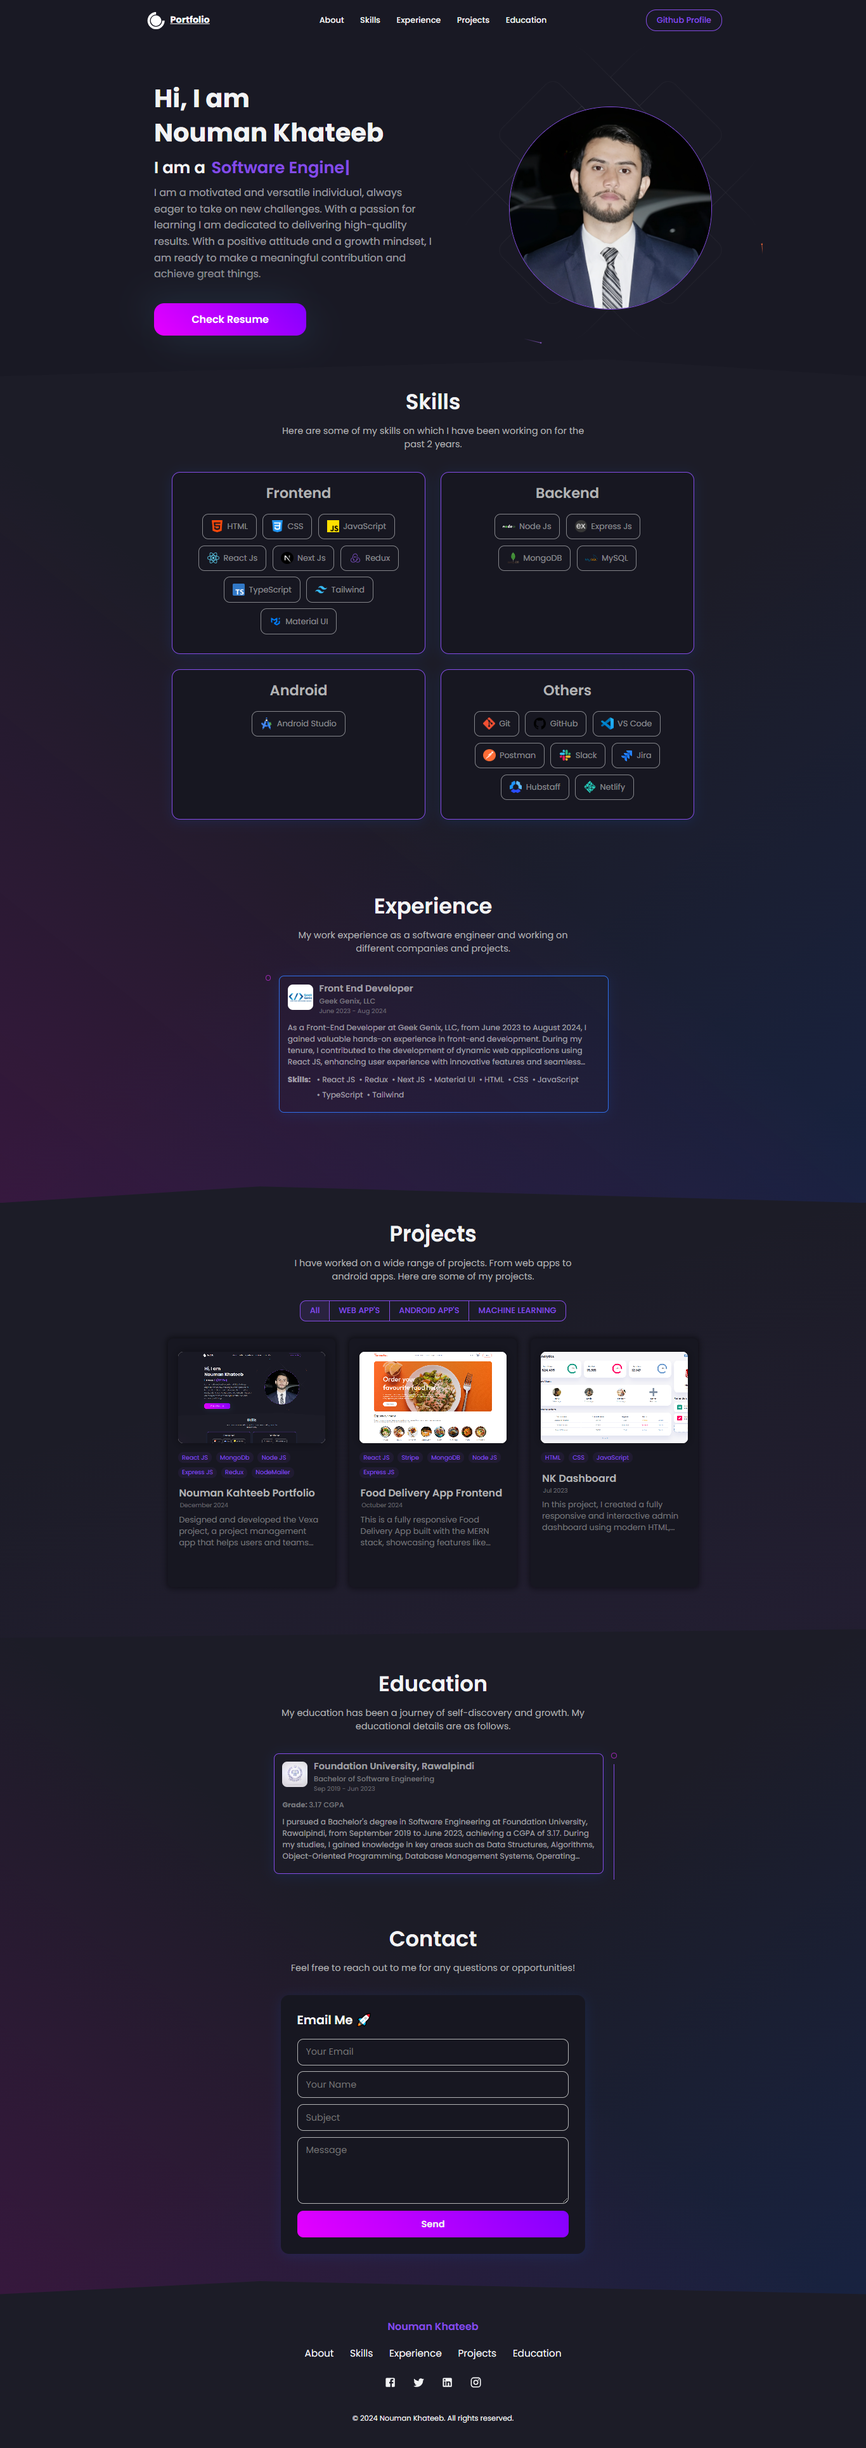
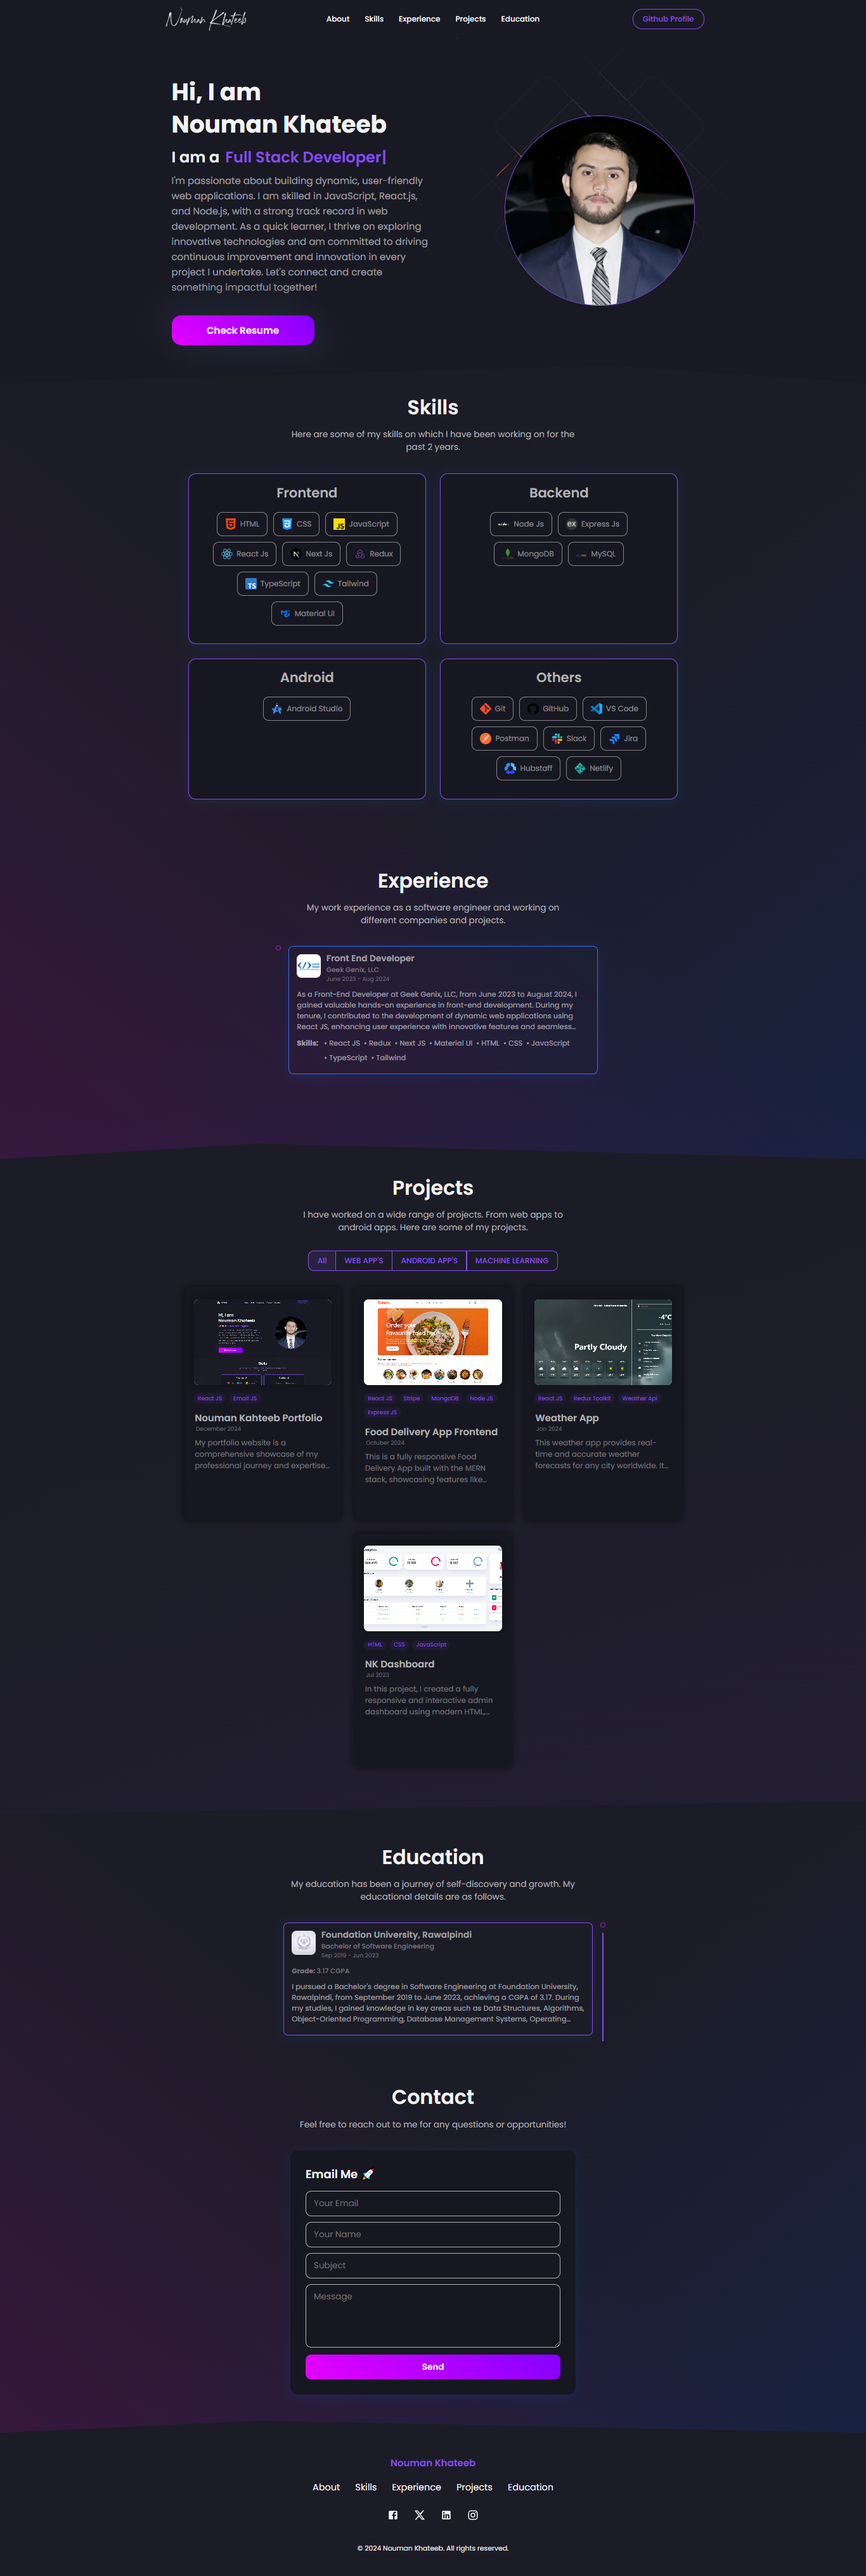
Fixing Issues

diff --git a/src/data/constants.js b/src/data/constants.js
@@ -7,7 +7,7 @@ export const Bio = {
     "Programmer",
   ],
   description:
-    "I am a motivated and versatile individual, always eager to take on new challenges. With a passion for learning I am dedicated to delivering high-quality results. With a positive attitude and a growth mindset, I am ready to make a meaningful contribution and achieve great things.",
+    "I'm passionate about building dynamic, user-friendly web applications. I am skilled in JavaScript, React.js, and Node.js, with a strong track record in web development. As a quick learner, I thrive on exploring innovative technologies and am committed to driving continuous improvement and innovation in every project I undertake. Let's connect and create something impactful together!",
   github: "https://github.com/noumankhateeb",
   resume:
     "https://drive.google.com/file/d/1ZwqZWDVTLE56RsHZ7kL20dNsj2UxmBEC/view?usp=sharing",
@@ -347,20 +347,16 @@ export const projects = [
     title: "Nouman Kahteeb Portfolio",
     date: "December 2024",
     description:
-      "Designed and developed the Vexa project, a project management app that helps users and teams stay organized and on track. Implemented key features such as task tracking, team collaboration, and time tracking to improve productivity and project outcomes and also invite team/project members. The plan is to add a community of users where they can find developers and other team members and chat system implementation.",
+      "My portfolio website is a comprehensive showcase of my professional journey and expertise, designed to provide a seamless user experience. It features an About section that introduces me and my background, followed by a Skills section where I highlight my technical proficiencies and areas of expertise. The Experience section details my professional roles and contributions, while the Projects section showcases some of my notable work, reflecting my ability to create impactful and user-friendly solutions. The Education section highlights my academic accomplishments, and the Contact section allows visitors to connect with me directly through a form powered by EmailJS.",
     image:
       "https://raw.githubusercontent.com/noumankhateeb/noumankhateeb-portfolio/refs/heads/main/Screenshot.png",
     tags: [
       "React JS",
-      "MongoDb",
-      "Node JS",
-      "Express JS",
-      "Redux",
-      "NodeMailer",
+      "Email JS",
     ],
     category: "web app",
-    github: "https://github.com/noumankhateeb/Project-Management-App",
-    webapp: "https://vexa-app.netlify.app/",
+    github: "https://github.com/noumankhateeb/noumankhateeb-portfolio",
+    webapp: "https://noumankhateeb.netlify.app/",
   },
   {
     id: 1,
@@ -394,6 +390,23 @@ export const projects = [
     //   github: "https://github.com/noumankhateeb",
     // },
     // ],
+  },
+  {
+    id: 2,
+    title: "Weather App",
+    date: "Jan 2024",
+    description:
+      "This weather app provides real-time and accurate weather forecasts for any city worldwide. It allows users to search for their desired location and view detailed 5-day forecasts, including temperature, humidity, and other weather conditions. The app is built using React.js and Redux Toolkit, integrating the WeatherAPI for reliable data fetching. Deployed on Netlify, it offers fast and efficient access. This project showcases expertise in modern web development and API integration while delivering a practical and visually appealing solution.",
+    image:
+      "https://raw.githubusercontent.com/noumankhateeb/weather-app/refs/heads/main/Screenshot.png",
+    tags: [
+      "React JS",
+      "Redux Toolkit",
+      "Weather Api",
+    ],
+    category: "web app",
+    github: "https://github.com/noumankhateeb/weather-app",
+    webapp: "https://weather-app-noumankhateeb.netlify.app/",
   },
   {
     id: 2,

diff --git a/src/components/Navbar/index.js b/src/components/Navbar/index.js
@@ -1,9 +1,9 @@
 import React from 'react'
-import { Nav, NavLink, NavbarContainer, Span, NavLogo, NavItems, GitHubButton, ButtonContainer, MobileIcon, MobileMenu, MobileLink } from './NavbarStyledComponent'
-import { DiCssdeck } from 'react-icons/di';
+import { Nav, NavLink, NavbarContainer, NavLogo, NavItems, GitHubButton, ButtonContainer, MobileIcon, MobileMenu, MobileLink } from './NavbarStyledComponent'
 import { FaBars } from 'react-icons/fa';
 import { Bio } from '../../data/constants';
 import { useTheme } from 'styled-components';
+import Logo from '../../images/logo.png'
 
 const Navbar = () => {
   const [isOpen, setIsOpen] = React.useState(false);
@@ -11,10 +11,13 @@ const Navbar = () => {
   return (
     <Nav>
       <NavbarContainer>
-        <NavLogo to='/'>
+        {/* <NavLogo to='/'>
           <a href='/' style={{ display: "flex", alignItems: "center", color: "white", marginBottom: '20;', cursor: 'pointer' }}>
             <DiCssdeck size="3rem" /> <Span>Portfolio</Span>
           </a>
+        </NavLogo> */}
+        <NavLogo to='/'>
+          <img src={Logo} alt="Logo" style={{ marginRight: '10px', height: '50px' }} />
         </NavLogo>
         <MobileIcon>
           <FaBars onClick={() => {
